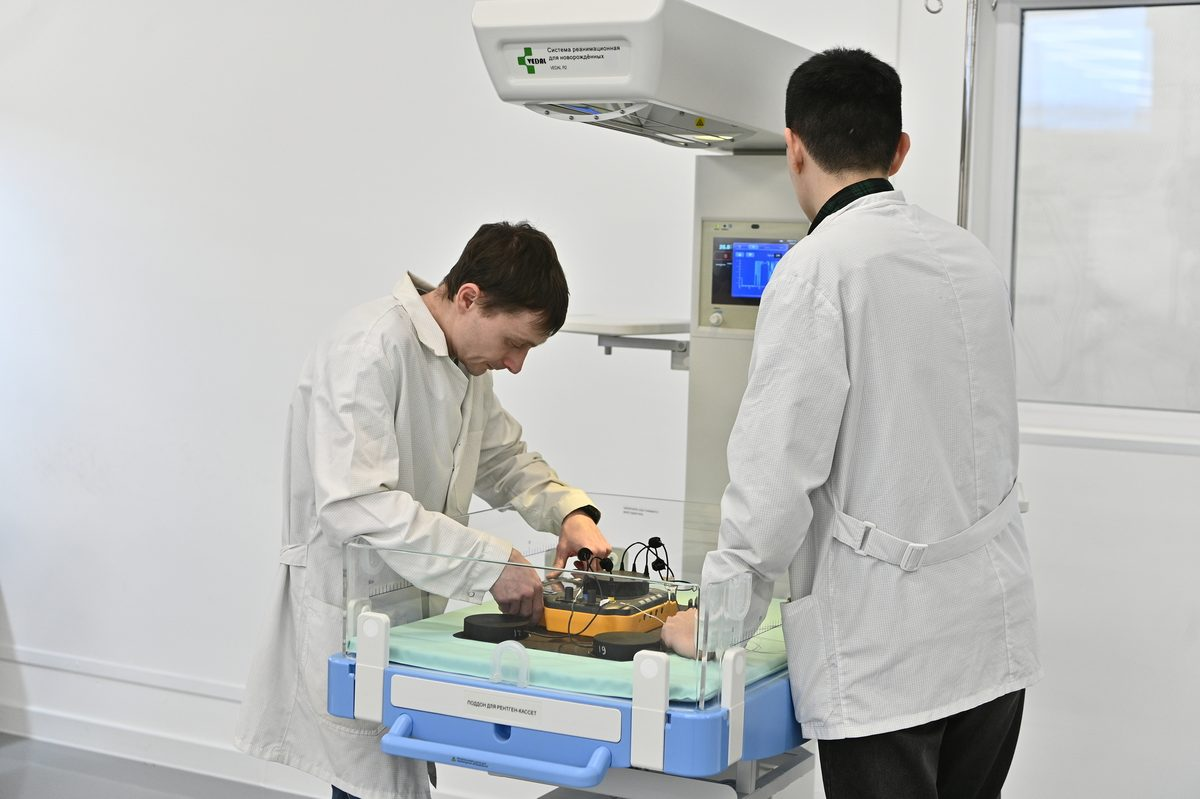
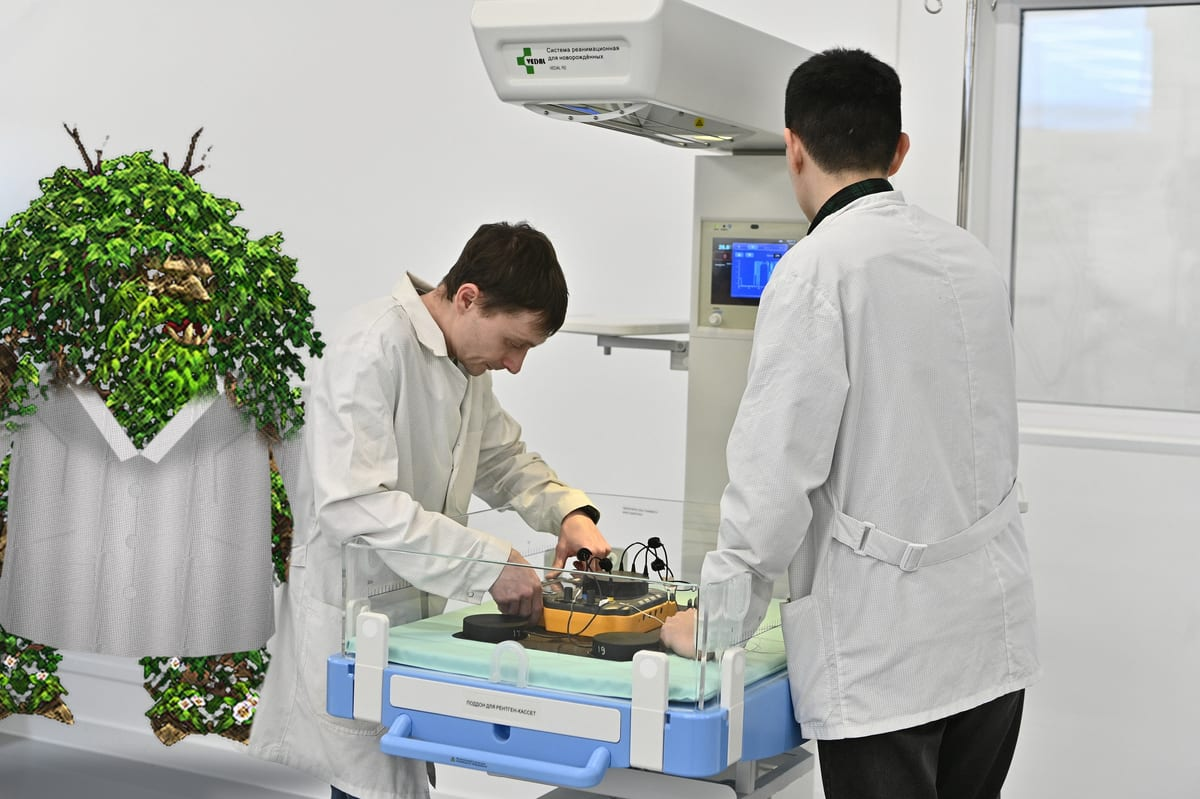
feat(front): паттерн на полосах с фото и новый снимок сервиса
————— паттерн в стыке —————

Заказчик прислал скриншоты с тем, как композиция должна лежать, и попросил
поставить её и на главную, ужав фотографию. Появилась вторая раскладка —
seam: паттерн стоит между текстом и снимком, правым краем заходя под него,
и читается полем, уходящим за фотографию.

Чтобы стык освободить, ужаты сами полосы:
— главная: фото 588 → 440 пикселей, заголовок 15ch → 13ch. Он тянулся
  на 781 пиксель и места под паттерн не оставлял;
— «Сервис» и «Производство»: колонки 1fr 1fr → 1.15fr 0.85fr.

Ширина паттерна в стыке ограничена 430 пикселями. Размер ведёт высота
полосы, а первый экран главной вдвое выше внутренних (677 против 332), и
без потолка композиция вырастала там до 617 пикселей и накрывала текст
на 353 — при том, что весь стык 300.

Замеры после правки, 1440 пикселей:
  главная      зазор до текста 102, заход под фото 140
  «Сервис»     зазор −74 → стало 74 перекрытия, заход 178
  «Производство» зазор −10, заход 178
На 375 пикселях квадраты по-прежнему скрыты, решётка на 22%,
переполнения нет.

————— снимок «Сервиса» —————

Заменён на присланный: инженеры настраивают открытую реанимационную
систему VEDAL R2. Прежний кадр был общим планом, этот показывает
конкретное изделие первого релиза и саму работу.

Исходник 3024×2012 на 1.7 МБ приведён к 1200×799 и 108 КБ — той же мере,
что остальные фотографии сайта. Колонка под него вдвое уже оригинала,
и отдавать полтора мегабайта незачем. Подпись уточнена: на снимке
[…]

diff --git a/frontend/components/LivePattern.module.css b/frontend/components/LivePattern.module.css
@@ -35,6 +35,30 @@
   opacity: 0.09;
 }
 
+/* Раскладка для полос, у которых правую половину занимает фото: главная,
+ * «Сервис», «Производство».
+ *
+ * Паттерн ставится в стык — его правый край заходит под левый край снимка,
+ * и композиция читается как поле, уходящее за фотографию. Ширина стыка
+ * задаётся страницей через --pattern-seam: это доля полосы, которую занимает
+ * фото, плюс небольшой заход под него.
+ *
+ * Размер меньше, чем у краевой раскладки: в стыке места меньше, чем у края
+ * полосы, и композиция во весь рост туда не помещается — она наехала бы
+ * на текст.
+ */
+.seam {
+  top: 8%;
+  right: var(--pattern-seam, 44%);
+  height: 84%;
+
+  /* Ограничение обязательно: размер ведёт высота полосы, а первый экран
+     главной вдвое выше внутренних (648 против 332 пикселей). Без потолка
+     композиция там вырастала до 617 пикселей в ширину и накрывала текст
+     на 353 — при том, что весь стык между строкой и фотографией 300. */
+  max-width: 430px;
+}
+
 /* Слои — обёртки, картинка внутри лежит через next/image с fill, то есть
    position: absolute; inset: 0. Анимация висит на обёртке, а не на самой
    картинке: next/image управляет её стилями сам, и transform на ней

diff --git a/frontend/components/LivePattern.tsx b/frontend/components/LivePattern.tsx
@@ -87,15 +87,33 @@ type Props = {
    * сильнее, чем текст рядом.
    */
   tone?: "light" | "dark";
+  /**
+   * Где стоит композиция.
+   *
+   * `edge` — прижата к правому краю полосы. Годится там, где правая часть
+   * свободна: первые экраны внутренних страниц.
+   *
+   * `seam` — в стыке между текстом и фотографией, правым краем под снимок.
+   * Для полос, где правую половину занимает фото: у края там встать негде,
+   * композиция ушла бы под снимок целиком. Долю, которую занимает фото,
+   * страница передаёт через CSS-переменную --pattern-seam.
+   */
+  placement?: "edge" | "seam";
 };
 
-export default function LivePattern({ variant = 1, tone = "light" }: Props) {
+export default function LivePattern({
+  variant = 1,
+  tone = "light",
+  placement = "edge",
+}: Props) {
   const net = NET[variant];
   const dark = tone === "dark";
 
   return (
     <span
-      className={`${styles.pattern} ${dark ? styles.dark : ""}`}
+      className={`${styles.pattern} ${dark ? styles.dark : ""} ${
+        placement === "seam" ? styles.seam : ""
+      }`}
       aria-hidden="true"
       data-variant={variant}
     >

diff --git a/frontend/content/service.ts b/frontend/content/service.ts
@@ -7,9 +7,16 @@
 export const serviceHero = {
   title: "Сервисная поддержка оборудования",
   lead: "Опишите ситуацию и укажите изделие — запрос примет специалист VEDAL. Ответ придёт по указанным контактам.",
+  // Снимок заменён 20 августа: инженеры настраивают открытую реанимационную
+  // систему VEDAL R2. Прежний кадр был общим планом, этот показывает
+  // конкретное изделие первого релиза и саму работу, а не помещение.
+  //
+  // Исходник 3024×2012 приведён к 1200×799 — той же мере, что остальные
+  // фотографии сайта. Оригинал на 1.7 МБ на странице не нужен: ширина
+  // колонки под него вдвое меньше.
   image: {
     src: "/photos/service.jpg",
-    alt: "Специалисты VEDAL за работой с оборудованием",
+    alt: "Инженеры VEDAL настраивают открытую реанимационную систему VEDAL R2",
   },
 };
 

diff --git a/frontend/app/(site)/page.module.css b/frontend/app/(site)/page.module.css
@@ -10,12 +10,17 @@
 /* Первый экран белый — по референсу
    assets/vedalina/vedalina-web-integration-mockup-v1.png. Граница с шапкой
    не теряется: у .bar в Header.module.css своя нижняя линия. */
+/* Фото сжато с 588 до 500 пикселей, чтобы освободить стык под живой
+   паттерн: заказчик просил поставить его и на первый экран главной.
+   --pattern-seam — доля полосы, отведённая фото, минус небольшой заход
+   паттерна под снимок. */
 .hero {
   position: relative;
   display: grid;
-  grid-template-columns: 1fr 588px;
+  grid-template-columns: 1fr 440px;
   min-height: 648px;
   background: var(--page);
+  --pattern-seam: 300px;
 }
 
 .heroCopy {
@@ -49,7 +54,9 @@
 
 .h1 {
   margin-top: 20px;
-  max-width: 15ch;
+  /* 13ch вместо 15: заголовок тянулся на 781 пиксель и не оставлял места
+     живому паттерну в стыке с фотографией. */
+  max-width: 13ch;
   font-size: 60px;
   line-height: 1.02;
   letter-spacing: -0.035em;

diff --git a/frontend/app/(site)/service/page.tsx b/frontend/app/(site)/service/page.tsx
@@ -7,6 +7,7 @@ import { site } from "@/content/site";
 import { serviceHero, steps, serviceForm, serviceNotice, urgent } from "@/content/service";
 import { companyContact, STAFF_AWAITING } from "@/content/staff";
 import { vedalina } from "@/content/vedalina";
+import LivePattern from "@/components/LivePattern";
 import styles from "./page.module.css";
 import { mediaSrc } from "@/lib/media";
 
@@ -23,7 +24,8 @@ export default async function ServicePage() {
       {/* Паттерна нет по той же причине, что на главной: правая половина
           полосы занята фото во всю высоту, и класть композицию за него
           или под текст одинаково плохо. */}
-      <section className={styles.hero}>
+      <section className={`${styles.hero} patternHost`}>
+        <LivePattern variant={2} placement="seam" />
         <div className={styles.heroCopy}>
           <p className={styles.crumbs}>
             <Link href="/">Главная</Link> / Сервис

diff --git a/frontend/app/(site)/production/page.tsx b/frontend/app/(site)/production/page.tsx
@@ -5,6 +5,7 @@ import VedalMap from "@/components/VedalMap";
 import { site } from "@/content/site";
 import { productionHero, facility, gallery, address } from "@/content/production";
 import TreeMark from "@/components/TreeMark";
+import LivePattern from "@/components/LivePattern";
 import styles from "./page.module.css";
 import { mediaSrc } from "@/lib/media";
 
@@ -18,7 +19,8 @@ export default function ProductionPage() {
     <main className={styles.page}>
       {/* Паттерна нет по той же причине, что на главной: правая половина
           полосы занята фото во всю высоту. */}
-      <section className={styles.hero}>
+      <section className={`${styles.hero} patternHost`}>
+        <LivePattern variant={1} placement="seam" />
         <div className={styles.heroCopy}>
           <p className={styles.crumbs}>
             <Link href="/">Главная</Link> / Производство

diff --git a/frontend/app/(site)/page.tsx b/frontend/app/(site)/page.tsx
@@ -32,7 +32,8 @@ export default function Home() {
           концом строки и краем фото всего 244 пикселя, а паттерну нужно
           465. Паттерн стоит там, где для него есть место, — на первых
           экранах внутренних страниц и на тёмной полосе призыва ниже. */}
-      <section className={styles.hero}>
+      <section className={`${styles.hero} patternHost`}>
+        <LivePattern variant={2} placement="seam" />
         <div className={styles.heroCopy}>
           {/* data-anim — крючки появления первого экрана, правила в app/motion.css */}
           <p className={`${styles.eyebrow} ${styles.eyebrowLight}`} data-anim="rise-sm">

diff --git a/frontend/app/(site)/service/page.module.css b/frontend/app/(site)/service/page.module.css
@@ -9,11 +9,14 @@
 /* ---------- hero-сплит ---------- */
 /* Белый вслед за остальными шапками разделов. Линия снизу отделяет её
    от содержимого — раньше это делал перепад с тёмного на белое. */
+/* Колонки 1fr 1fr сжаты до 1.15fr 0.85fr: правая половина отдана фото,
+   и без сжатия стыка под паттерн не остаётся. */
 .hero {
   display: grid;
-  grid-template-columns: 1fr 1fr;
+  grid-template-columns: 1.15fr 0.85fr;
   background: var(--page);
   border-bottom: 1px solid var(--line);
+  --pattern-seam: 30%;
 }
 
 .heroCopy {

diff --git a/frontend/app/(site)/production/page.module.css b/frontend/app/(site)/production/page.module.css
@@ -16,11 +16,13 @@
 /* Белый вслед за первым экраном главной и шапками остальных разделов.
    Линия снизу отделяет шапку от содержимого: раньше это делал перепад
    с тёмного на белое. */
+/* То же, что на «Сервисе»: фото ужато, стык освобождён под паттерн. */
 .hero {
   display: grid;
-  grid-template-columns: 1fr 1fr;
+  grid-template-columns: 1.15fr 0.85fr;
   background: var(--page);
   border-bottom: 1px solid var(--line);
+  --pattern-seam: 30%;
 }
 
 .heroCopy {
